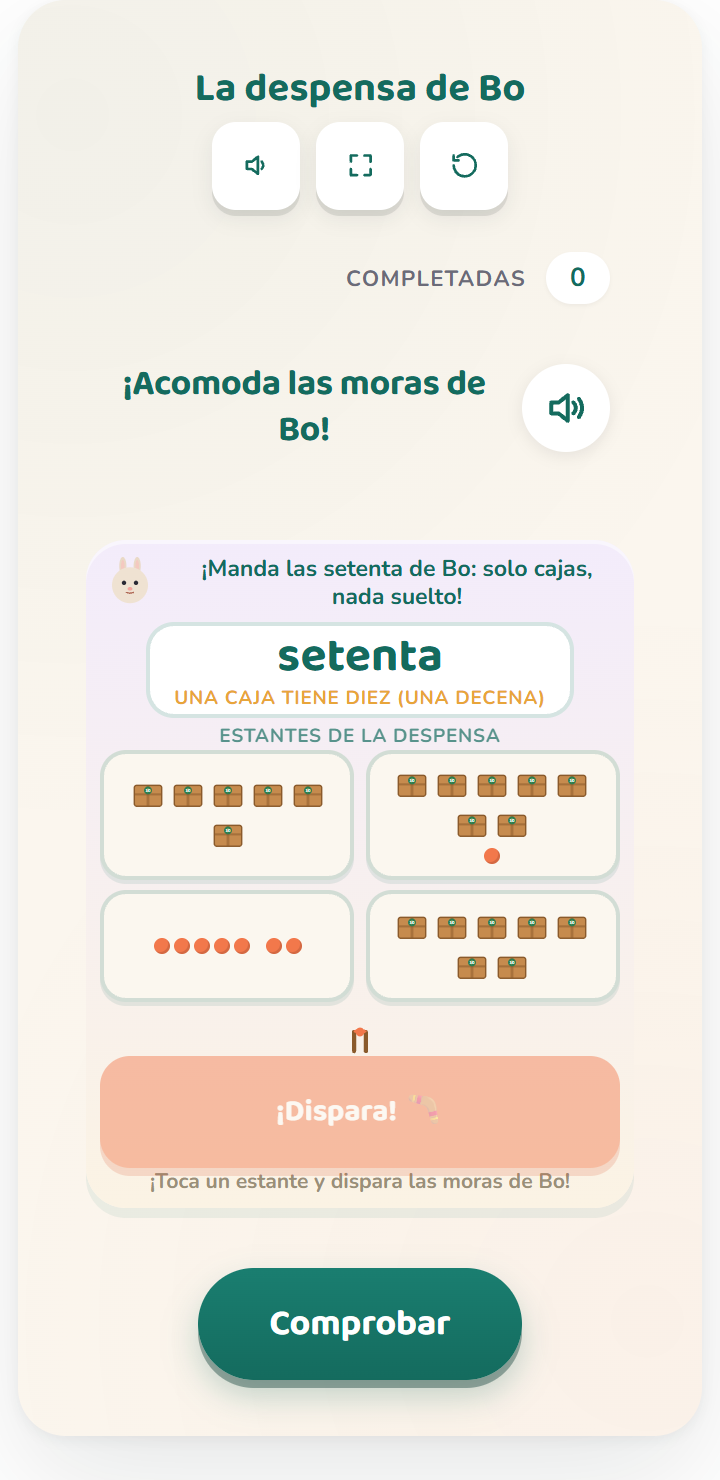
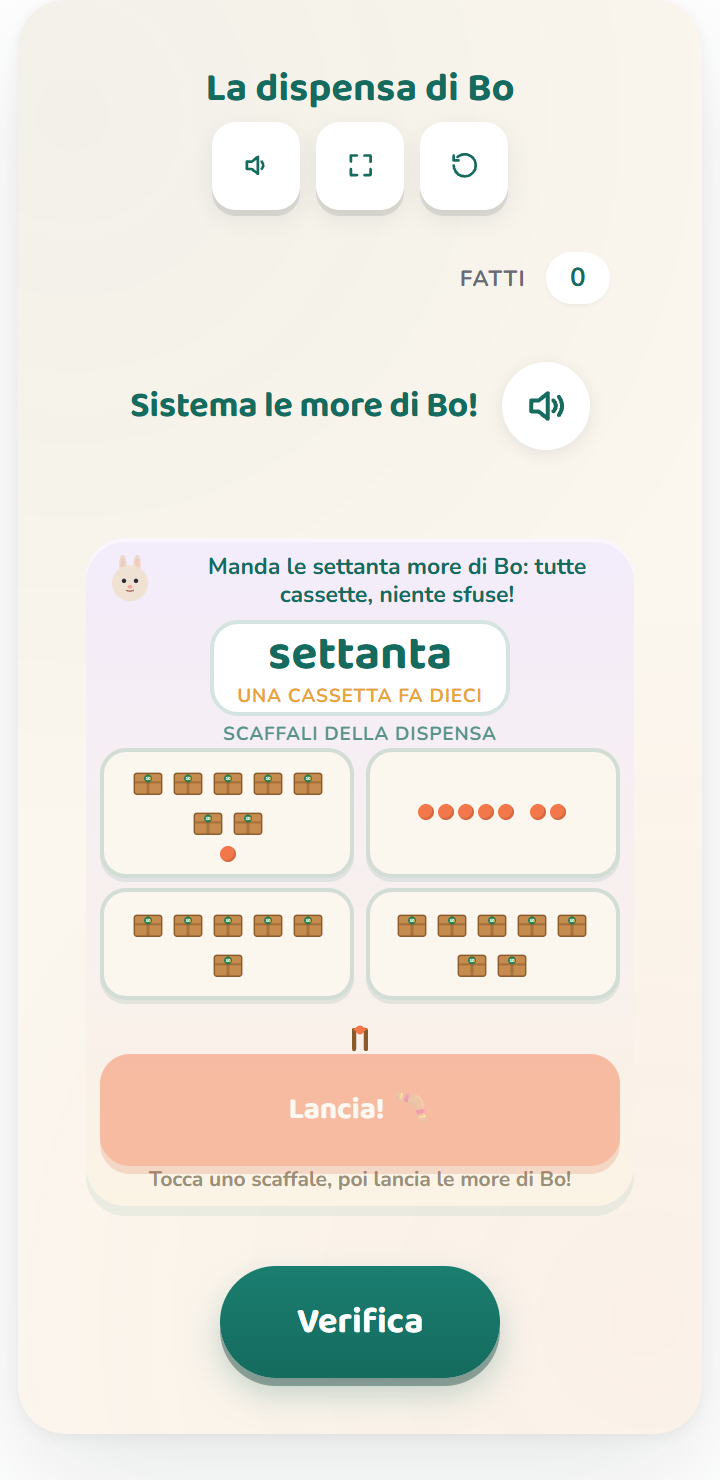
[FEATURE][I18N][IT] bos-berry-pantry #47 — La dispensa di Bo (valore posizionale decine e unità, Numeri, classe seconda)
11th it MATH — Bo il coniglio packs berries: a crate = TEN, loose berries =
ones; read a two-digit number and sling it to the place-value shelf (1.NBT.B.2).
Rebuild-not-translate for the Indicazioni nazionali; framework name only, no
code. Activity-layer only (0 core/shell/Direction-A lines).

Biggest it edit surface yet (engine has full per-locale LANG chains):
- numWordIT(n) — Italian number words 0-99 (tré-accent in compounds only,
  uno/otto elision via slice); pedagogue-verified across the round values.
- 6 LANG-branch `it` arms: numWord chain, hoardAria («{n} cassette e {n} more
  sfuse»), speak ×2 (⚠ fixed the it→en-US TTS fallback bug), Bo aria («Bo il
  coniglio»), shelf-numeral aria, "count again" speak.
- 19 chrome strings apostrophe-free JS (via «di Bo»/«non è»/enclitics).

- GRADE_OVERRIDE it:'2' classe seconda — il valore posizionale FORMALE (decine
  e unità to 85, funzione dello zero via 40/70) = seconda; prima = entro il 20 +
  la decina solo concreta. ALIGNS de/pt (grade 2), DIVERGES es/fr (grade 1) —
  the national-curriculum-wins precedent.
- STRAND «Numeri» — NO override (NBT→«Numeri» clean; de-only strand row for the
  German base-ten calque stays untouched).
- Bo = «il coniglio»; crate = «la cassetta» (decina), berries = «le more», loose
  = «more sfuse» (unità), shelf = «lo scaffale», sling = «lancia».
- 3-agent native it ensemble (Indicazioni pedagogue + linguist + B2C/SEO), unanimous.
[…]

diff --git a/mini tools/bos-berry-pantry-activity.js b/mini tools/bos-berry-pantry-activity.js
@@ -78,8 +78,24 @@
     if (t > 9) return String(n);
     return o ? TENS_PT[t] + ' e ' + ONES_PT[o] : TENS_PT[t];
   }
+  /* Italian number-words (classe seconda, valore posizionale ZR fino a ~100). tens + ones as ONE word;
+     the tens' final vowel ELIDES before uno & otto (venti→ventuno/ventotto); 3 carries an acute accent
+     ONLY as a compound suffix (ventitré/sessantatré) — standalone ONES_IT[3]='tre' has no accent. */
+  var ONES_IT = ['zero', 'uno', 'due', 'tre', 'quattro', 'cinque', 'sei', 'sette', 'otto', 'nove', 'dieci', 'undici', 'dodici', 'tredici', 'quattordici', 'quindici', 'sedici', 'diciassette', 'diciotto', 'diciannove'];
+  var TENS_IT = ['', '', 'venti', 'trenta', 'quaranta', 'cinquanta', 'sessanta', 'settanta', 'ottanta', 'novanta'];
+  var UNIT_IT = ['', 'uno', 'due', 'tré', 'quattro', 'cinque', 'sei', 'sette', 'otto', 'nove'];
+  function numWordIT(n) {
+    n = n | 0;
+    if (n < 20) return ONES_IT[n] || String(n);
+    var t = Math.floor(n / 10), o = n % 10;
+    if (t > 9) return String(n);
+    if (o === 0) return TENS_IT[t];
+    var tens = TENS_IT[t];
+    if (o === 1 || o === 8) tens = tens.slice(0, -1);
+    return tens + UNIT_IT[o];
+  }
   var LANG = 'en';
-  function numWord(n) { return LANG === 'pt' ? numWordPT(n) : (LANG === 'es' ? numWordES(n) : (LANG === 'fr' ? numWordFR(n) : (LANG === 'de' ? numWordDE(n) : enWord(n)))); }
+  function numWord(n) { return LANG === 'it' ? numWordIT(n) : (LANG === 'pt' ? numWordPT(n) : (LANG === 'es' ? numWordES(n) : (LANG === 'fr' ? numWordFR(n) : (LANG === 'de' ? numWordDE(n) : enWord(n))))); }
   /* shelf-hoard aria — German needs singular/plural (1 Kiste / N Kisten; 1 lose Beere /
      N lose Beeren) and drops the loose clause when ones=0. EN stays byte-identical. */
   function hoardAria(tens, ones) {
@@ -103,20 +119,25 @@
       if (ones) p += ' e ' + ones + ' ' + (ones === 1 ? 'amora solta' : 'amoras soltas');
       return p;
     }
+    if (LANG === 'it') {
+      var it = (tens === 1 ? '1 cassetta' : tens + ' cassette');
+      if (ones) it += ' e ' + ones + ' ' + (ones === 1 ? 'mora sfusa' : 'more sfuse');
+      return it;
+    }
     return tens + ' crates and ' + ones + ' loose berries';
   }
 
   function speak(text) {
     try {
-      if (global.LCSAudio && global.LCSAudio.speak) { global.LCSAudio.speak({ type: 'word', text: String(text), lang: (LANG === 'es' ? 'es-MX' : LANG === 'pt' ? 'pt-BR' : LANG), rate: 0.95 }); return; }
-      if (global.speechSynthesis && global.SpeechSynthesisUtterance) { var u = new global.SpeechSynthesisUtterance(String(text)); u.rate = .95; u.lang = (LANG === 'es' ? 'es-MX' : (LANG === 'de' ? 'de-DE' : (LANG === 'fr' ? 'fr-FR' : (LANG === 'pt' ? 'pt-BR' : 'en-US')))); global.speechSynthesis.cancel(); global.speechSynthesis.speak(u); }
+      if (global.LCSAudio && global.LCSAudio.speak) { global.LCSAudio.speak({ type: 'word', text: String(text), lang: (LANG === 'es' ? 'es-MX' : LANG === 'pt' ? 'pt-BR' : LANG === 'it' ? 'it-IT' : LANG), rate: 0.95 }); return; }
+      if (global.speechSynthesis && global.SpeechSynthesisUtterance) { var u = new global.SpeechSynthesisUtterance(String(text)); u.rate = .95; u.lang = (LANG === 'es' ? 'es-MX' : (LANG === 'de' ? 'de-DE' : (LANG === 'fr' ? 'fr-FR' : (LANG === 'pt' ? 'pt-BR' : (LANG === 'it' ? 'it-IT' : 'en-US'))))); global.speechSynthesis.cancel(); global.speechSynthesis.speak(u); }
     } catch (e) {}
   }
   var REDUCED = (global.matchMedia && global.matchMedia('(prefers-reduced-motion: reduce)').matches);
 
   function boSVG(mood) {
     var happy = mood === 'happy';
-    return '<svg viewBox="0 0 100 100" role="img" aria-label="' + (LANG === 'es' ? 'Bo el conejo' : (LANG === 'de' ? 'Bo das Kaninchen' : (LANG === 'fr' ? 'Bo le lapin' : (LANG === 'pt' ? 'Bo o coelho' : 'Bo the bunny')))) + '">'
+    return '<svg viewBox="0 0 100 100" role="img" aria-label="' + (LANG === 'es' ? 'Bo el conejo' : (LANG === 'de' ? 'Bo das Kaninchen' : (LANG === 'fr' ? 'Bo le lapin' : (LANG === 'pt' ? 'Bo o coelho' : (LANG === 'it' ? 'Bo il coniglio' : 'Bo the bunny'))))) + '">'
       + '<ellipse cx="38" cy="20" rx="6" ry="15" fill="#E9D9C6"/><ellipse cx="62" cy="20" rx="6" ry="15" fill="#E9D9C6"/>'   // ears
       + '<ellipse cx="38" cy="20" rx="3" ry="10" fill="#F4C9C0"/><ellipse cx="62" cy="20" rx="3" ry="10" fill="#F4C9C0"/>'
       + '<circle cx="50" cy="52" r="30" fill="#EFE2D2"/>'                                                                     // head
@@ -141,25 +162,25 @@
     reward: { id: 'pantry', label: "Bo's Winter Pantry", emoji: '🧺' },
 
     strings: {
-      title: { en: "Bo's Berry Pantry", de: 'Bos Beerenkammer', fr: 'Le garde-manger de Bo', es: 'La despensa de Bo', pt: 'A despensa do Bo' },
-      instruction: { en: 'Read Bo’s berries, then sling them to the matching shelf.', de: 'Lies Bos Beeren und schieß sie zum passenden Regal!', fr: 'Lis les baies de Bo, puis lance-les sur la bonne étagère !', es: '¡Lee las moras de Bo y dispáralas al estante que coincide!', pt: 'Leia as amoras do Bo e atire na prateleira certa!' },
-      prompt: { en: 'Pack Bo’s berries!', de: 'Pack Bos Beeren!', fr: 'Range les baies de Bo !', es: '¡Acomoda las moras de Bo!', pt: 'Guarde as amoras do Bo!' },
-      qPile: { en: 'Pack Bo’s berries — crates and loose!', de: 'Pack Bos Beeren — Kisten und lose Beeren!', fr: 'Range les baies de Bo — des caisses et des baies libres !', es: '¡Acomoda las moras de Bo: cajas y moras sueltas!', pt: 'Guarde as amoras do Bo: caixas e amoras soltas!' },
-      qDecade: { en: 'Send Bo’s {w} — all crates, no loose!', de: 'Schick Bos {w} — nur Kisten, nichts Loses!', fr: 'Envoie les {w} de Bo — que des caisses, rien de libre !', es: '¡Manda las {w} de Bo: solo cajas, nada suelto!', pt: 'Mande as {w} do Bo: só caixas, nada solto!' },
-      qUnitize: { en: 'Pack {w} — use the MOST crates you can!', de: 'Pack {w} — nimm so viele Kisten wie möglich!', fr: 'Range {w} — utilise le PLUS de caisses possible !', es: 'Acomoda {w}: ¡usa la mayor cantidad de cajas posible!', pt: 'Guarde {w}: use o máximo de caixas que der!' },
-      qCompare: { en: 'Which shelf has MORE?', de: 'Welches Regal hat MEHR?', fr: 'Quelle étagère en a le PLUS ?', es: '¿Cuál estante tiene MÁS?', pt: 'Qual prateleira tem MAIS?' },
-      qNumeral: { en: 'Send {w} home — match the shelf!', de: 'Schick {w} nach Hause — finde das passende Regal!', fr: 'Renvoie {w} à la maison — trouve la bonne étagère !', es: '¡Manda {w} a su lugar: encuentra el estante que coincide!', pt: 'Mande {w} para o lugar certo: ache a prateleira que combina!' },
-      qEncode: { en: 'Which number is Bo’s hoard?', de: 'Welche Zahl ist Bos Vorrat?', fr: 'Quel nombre est le trésor de Bo ?', es: '¿Qué número tiene Bo guardado?', pt: 'Que número o Bo guardou?' },
-      crateWord: { en: 'a crate is TEN', de: 'eine Kiste ist ZEHN', fr: 'une caisse, c’est DIX', es: 'una caja tiene DIEZ (una decena)', pt: 'uma caixa tem DEZ (uma dezena)' },
-      shelvesLab: { en: 'Pantry shelves', de: 'VORRATSREGALE', fr: 'ÉTAGÈRES DU GARDE-MANGER', es: 'ESTANTES DE LA DESPENSA', pt: 'PRATELEIRAS DA DESPENSA' },
-      sling: { en: 'Sling it! 🪃', de: 'Schieß los! 🪃', fr: 'Lance ! 🪃', es: '¡Dispara! 🪃', pt: 'Atire! 🪃' },
-      slingHint: { en: 'Tap a shelf, then sling Bo’s berries!', de: 'Tipp ein Regal an und schieß Bos Beeren!', fr: 'Touche une étagère, puis lance les baies de Bo !', es: '¡Toca un estante y dispara las moras de Bo!', pt: 'Toque numa prateleira e atire as amoras do Bo!' },
-      lockedHint: { en: 'Now sling it to that shelf!', de: 'Jetzt schieß sie zum Regal!', fr: 'Maintenant, lance-les sur cette étagère !', es: '¡Ahora dispáralas al estante!', pt: 'Agora atire na prateleira!' },
-      wrongCrates: { en: 'That shelf holds {k} crates — count again for Bo!', de: 'Dieses Regal hat {k} Kisten — zähl noch mal für Bo!', fr: 'Cette étagère a {k} caisses — recompte pour Bo !', es: 'Este estante tiene {k} cajas: ¡cuenta otra vez para Bo!', pt: 'Esta prateleira tem {k} caixas: conte de novo para o Bo!' },
-      wrongOne: { en: 'That shelf holds 1 crate — count again for Bo!', de: 'Dieses Regal hat 1 Kiste — zähl noch mal für Bo!', fr: 'Cette étagère a 1 caisse — recompte pour Bo !', es: 'Este estante tiene 1 caja: ¡cuenta otra vez para Bo!', pt: 'Esta prateleira tem 1 caixa: conte de novo para o Bo!' },
-      wrongNum: { en: 'That number isn’t Bo’s hoard — count again!', de: 'Das ist nicht Bos Vorrat — zähl noch mal!', fr: 'Ce n’est pas le trésor de Bo — recompte !', es: 'Ese no es lo que guardó Bo: ¡cuenta otra vez!', pt: 'Não foi isso que o Bo guardou: conte de novo!' },
-      win: { en: '{w} — packed into tens! 🧺', de: '{w} — in Zehner gepackt! 🧺', fr: '{w} — rangé en dizaines ! 🧺', es: '{w}: ¡acomodadas en decenas! 🧺', pt: '{w}: guardadas em dezenas! 🧺' },
-      tapCheck: { en: 'Tap Check! ✓', de: 'Tipp auf „Prüfen"! ✓', fr: 'Touche Vérifier ! ✓', es: '¡Toca «Comprobar»! ✓', pt: 'Toque em “Verificar”! ✓' }
+      title: { en: "Bo's Berry Pantry", de: 'Bos Beerenkammer', fr: 'Le garde-manger de Bo', es: 'La despensa de Bo', pt: 'A despensa do Bo', it: 'La dispensa di Bo' },
+      instruction: { en: 'Read Bo’s berries, then sling them to the matching shelf.', de: 'Lies Bos Beeren und schieß sie zum passenden Regal!', fr: 'Lis les baies de Bo, puis lance-les sur la bonne étagère !', es: '¡Lee las moras de Bo y dispáralas al estante que coincide!', pt: 'Leia as amoras do Bo e atire na prateleira certa!', it: 'Leggi le more di Bo, poi lanciale sullo scaffale giusto.' },
+      prompt: { en: 'Pack Bo’s berries!', de: 'Pack Bos Beeren!', fr: 'Range les baies de Bo !', es: '¡Acomoda las moras de Bo!', pt: 'Guarde as amoras do Bo!', it: 'Sistema le more di Bo!' },
+      qPile: { en: 'Pack Bo’s berries — crates and loose!', de: 'Pack Bos Beeren — Kisten und lose Beeren!', fr: 'Range les baies de Bo — des caisses et des baies libres !', es: '¡Acomoda las moras de Bo: cajas y moras sueltas!', pt: 'Guarde as amoras do Bo: caixas e amoras soltas!', it: 'Sistema le more di Bo: cassette e more sfuse!' },
+      qDecade: { en: 'Send Bo’s {w} — all crates, no loose!', de: 'Schick Bos {w} — nur Kisten, nichts Loses!', fr: 'Envoie les {w} de Bo — que des caisses, rien de libre !', es: '¡Manda las {w} de Bo: solo cajas, nada suelto!', pt: 'Mande as {w} do Bo: só caixas, nada solto!', it: 'Manda le {w} more di Bo: tutte cassette, niente sfuse!' },
+      qUnitize: { en: 'Pack {w} — use the MOST crates you can!', de: 'Pack {w} — nimm so viele Kisten wie möglich!', fr: 'Range {w} — utilise le PLUS de caisses possible !', es: 'Acomoda {w}: ¡usa la mayor cantidad de cajas posible!', pt: 'Guarde {w}: use o máximo de caixas que der!', it: 'Sistema {w}: usa PIÙ cassette che puoi!' },
+      qCompare: { en: 'Which shelf has MORE?', de: 'Welches Regal hat MEHR?', fr: 'Quelle étagère en a le PLUS ?', es: '¿Cuál estante tiene MÁS?', pt: 'Qual prateleira tem MAIS?', it: 'Quale scaffale ne ha di PIÙ?' },
+      qNumeral: { en: 'Send {w} home — match the shelf!', de: 'Schick {w} nach Hause — finde das passende Regal!', fr: 'Renvoie {w} à la maison — trouve la bonne étagère !', es: '¡Manda {w} a su lugar: encuentra el estante que coincide!', pt: 'Mande {w} para o lugar certo: ache a prateleira que combina!', it: 'Manda {w} a casa: trova lo scaffale giusto!' },
+      qEncode: { en: 'Which number is Bo’s hoard?', de: 'Welche Zahl ist Bos Vorrat?', fr: 'Quel nombre est le trésor de Bo ?', es: '¿Qué número tiene Bo guardado?', pt: 'Que número o Bo guardou?', it: 'Quale numero è la scorta di Bo?' },
+      crateWord: { en: 'a crate is TEN', de: 'eine Kiste ist ZEHN', fr: 'une caisse, c’est DIX', es: 'una caja tiene DIEZ (una decena)', pt: 'uma caixa tem DEZ (uma dezena)', it: 'una cassetta fa DIECI' },
+      shelvesLab: { en: 'Pantry shelves', de: 'VORRATSREGALE', fr: 'ÉTAGÈRES DU GARDE-MANGER', es: 'ESTANTES DE LA DESPENSA', pt: 'PRATELEIRAS DA DESPENSA', it: 'SCAFFALI DELLA DISPENSA' },
+      sling: { en: 'Sling it! 🪃', de: 'Schieß los! 🪃', fr: 'Lance ! 🪃', es: '¡Dispara! 🪃', pt: 'Atire! 🪃', it: 'Lancia! 🪃' },
+      slingHint: { en: 'Tap a shelf, then sling Bo’s berries!', de: 'Tipp ein Regal an und schieß Bos Beeren!', fr: 'Touche une étagère, puis lance les baies de Bo !', es: '¡Toca un estante y dispara las moras de Bo!', pt: 'Toque numa prateleira e atire as amoras do Bo!', it: 'Tocca uno scaffale, poi lancia le more di Bo!' },
+      lockedHint: { en: 'Now sling it to that shelf!', de: 'Jetzt schieß sie zum Regal!', fr: 'Maintenant, lance-les sur cette étagère !', es: '¡Ahora dispáralas al estante!', pt: 'Agora atire na prateleira!', it: 'Ora lancia su quello scaffale!' },
+      wrongCrates: { en: 'That shelf holds {k} crates — count again for Bo!', de: 'Dieses Regal hat {k} Kisten — zähl noch mal für Bo!', fr: 'Cette étagère a {k} caisses — recompte pour Bo !', es: 'Este estante tiene {k} cajas: ¡cuenta otra vez para Bo!', pt: 'Esta prateleira tem {k} caixas: conte de novo para o Bo!', it: 'Quello scaffale tiene {k} cassette: riconta per Bo!' },
+      wrongOne: { en: 'That shelf holds 1 crate — count again for Bo!', de: 'Dieses Regal hat 1 Kiste — zähl noch mal für Bo!', fr: 'Cette étagère a 1 caisse — recompte pour Bo !', es: 'Este estante tiene 1 caja: ¡cuenta otra vez para Bo!', pt: 'Esta prateleira tem 1 caixa: conte de novo para o Bo!', it: 'Quello scaffale tiene 1 cassetta: riconta per Bo!' },
+      wrongNum: { en: 'That number isn’t Bo’s hoard — count again!', de: 'Das ist nicht Bos Vorrat — zähl noch mal!', fr: 'Ce n’est pas le trésor de Bo — recompte !', es: 'Ese no es lo que guardó Bo: ¡cuenta otra vez!', pt: 'Não foi isso que o Bo guardou: conte de novo!', it: 'Quel numero non è la scorta di Bo: riconta!' },
+      win: { en: '{w} — packed into tens! 🧺', de: '{w} — in Zehner gepackt! 🧺', fr: '{w} — rangé en dizaines ! 🧺', es: '{w}: ¡acomodadas en decenas! 🧺', pt: '{w}: guardadas em dezenas! 🧺', it: '{w}: sistemate in decine! 🧺' },
+      tapCheck: { en: 'Tap Check! ✓', de: 'Tipp auf „Prüfen"! ✓', fr: 'Touche Vérifier ! ✓', es: '¡Toca «Comprobar»! ✓', pt: 'Toque em “Verificar”! ✓', it: 'Tocca Verifica! ✓' }
     },
     defaults: {},
 
@@ -250,7 +271,7 @@
       this.cstate.positions.forEach(function (key) {
         var sh = self.round.shelves[key], locked = (self.cstate.lockedKey === key);
         var btn = api.el('button', 'bp-shelf' + (locked ? ' bp-locked' : '')); btn.type = 'button'; btn.setAttribute('data-key', key);
-        if (sh.numeral != null) { var num = api.el('span', 'bp-shnum'); num.textContent = sh.numeral; btn.appendChild(num); btn.setAttribute('aria-label', (LANG === 'es' ? 'el número ' : (LANG === 'de' ? 'die Zahl ' : (LANG === 'fr' ? 'le nombre ' : (LANG === 'pt' ? 'o número ' : 'the number ')))) + sh.numeral); }
+        if (sh.numeral != null) { var num = api.el('span', 'bp-shnum'); num.textContent = sh.numeral; btn.appendChild(num); btn.setAttribute('aria-label', (LANG === 'es' ? 'el número ' : (LANG === 'de' ? 'die Zahl ' : (LANG === 'fr' ? 'le nombre ' : (LANG === 'pt' ? 'o número ' : (LANG === 'it' ? 'il numero ' : 'the number '))))) + sh.numeral); }
         else { btn.appendChild(self._hoard(sh.tens | 0, sh.ones | 0)); btn.setAttribute('aria-label', hoardAria(sh.tens | 0, sh.ones | 0)); }
         btn.addEventListener('click', function () { self._lockShelf(key); });
         self._shelfEls[key] = btn; row.appendChild(btn);
@@ -300,7 +321,7 @@
       if (r === 'wrong') {
         if (shelf.numeral != null) this.msg = this.api.t('wrongNum');
         else { var k = shelf.tens | 0; this.msg = (k === 1) ? this.api.t('wrongOne') : this.api.t('wrongCrates').replace('{k}', k); }
-        this.api.sound && this.api.sound(330); speak(LANG === 'es' ? 'cuenta otra vez' : (LANG === 'de' ? 'Zähl noch einmal' : (LANG === 'fr' ? 'Compte encore' : (LANG === 'pt' ? 'Conte de novo' : 'count again')))); this.render();
+        this.api.sound && this.api.sound(330); speak(LANG === 'es' ? 'cuenta otra vez' : (LANG === 'de' ? 'Zähl noch einmal' : (LANG === 'fr' ? 'Compte encore' : (LANG === 'pt' ? 'Conte de novo' : (LANG === 'it' ? 'Conta di nuovo' : 'count again'))))); this.render();
       } else { this.render(); }
     },
     _win: function () {

diff --git a/frontend/app/[locale]/activities/[slug]/page.tsx b/frontend/app/[locale]/activities/[slug]/page.tsx
@@ -95,7 +95,7 @@ const GRADE_OVERRIDE: Record<string, Record<string, string>> = {
   'maple-bakery.share.3-oa-a-2': { de: '2', fr: '2', it: '2' },                    // Division (Verteilen/Aufteilen, ohne Rest) introduced alongside Einmaleins = DE Klasse 2. FR CE1 (operator-ruled): division-SENS (partage/groupement, petits nombres, sans reste, imagé) = l'approche de la division au CE1 (CE2 formalise le quotient/reste); native '3'→CE2 too high; de Klasse-2 re-grade ≈ fr CE1; « Nombres et calcul » auto-map → NO STRAND override. ES: NO override — en MX la división (reparto/agrupamiento) entra en 3.º primaria, un año DESPUÉS de la multiplicación (#38 echo-grove es:'2'); grado nativo 3 → "3.º de primaria" (asimetría deliberada mult 2.º / div 3.º — NO igualar a echo-grove). Strand auto "Sentido numérico" → NO STRAND override. IT: classe seconda — l'Italia segue il pattern de/fr (moltiplicazione e divisione = coppia inversa nello STESSO anno; la divisione [reparto/raggruppamento, senza resto, per immagini] entra nel 2º quadrimestre di classe seconda; la divisione in colonna + il resto = classe terza) → it si UNISCE a de/fr a '2', NON alla asimmetria es/pt native-3; strand auto → «Numeri» (NIENTE «Algebra» nella primaria) → NO STRAND override
   'comet-kangaroo.tens-hundreds.2-nbt-b-8': { de: '3', es: '3', pt: '3', it: '3' },         // 10/100 mehr-weniger im ZR bis 1000 = DE Klasse 3 (Tausenderraum; Klasse 2 = bis 100). ES: números hasta 1000 / valor posicional de 3 cifras = 3.º primaria en MX; espeja place-value-regroup 2-nbt-b-7 es:'3' (bis-1000 = 3º). PT: valor posicional de 3 algarismos + 10/100 a mais/a menos até 1000 = BNCC 3º ano (EF03MA01/02 números até milhar + composição/valor posicional; EF03MA05 cálculo mental); 2º = até centenas com material manipulável → o campo abstrato até 1000 é o salto 2º→3º. Strand auto-map (NBT→"Números") já correto → SEM STRAND_OVERRIDE pt. IT: i numeri fino a 1000 / valore posizionale 3 cifre / calcolo mentale «10 in più / 100 in meno» = classe terza (classe seconda entro il 100) → it:'3' come de/es/pt; strand auto NBT→«Numeri» → NO STRAND override
   'track-repair.count-to-120.1-nbt-a-1': { de: '2', fr: '1', it: '2' },   // Orientierung am Zahlenstrahl bis 100 + skip-counting = DE Klasse 2 (ZR bis 20 = Klasse 1); US Grade 1 offset. IT classe seconda (override del manifest '1'): orientarsi/collocare sulla linea dei numeri fino a 100 + contare per salti (per 5, per 10) = classe SECONDA nelle Indicazioni (la classe prima si ferma a ~20 con la linea dei numeri solo per numeri piccoli; i range 84-101 + gli skip-count 15·20·25 / 50·60 / 70·80 superano il tetto di prima). ALLINEA de (Klasse 2), DIVERGE da fr/es/pt grade-1 (i cui curricoli fanno il 100 in prima/CP). Strand «Numeri» auto (NBT→«Numeri») → NO it STRAND override. FR CP (operator-ruled): la ligne numérique + compter en avant/arrière + de 5 en 5 / de 10 en 10 + placer les nombres jusqu'à ~100 = attendus du CP; la France fait 100 au CP (là où l'Allemagne a besoin de Klasse 2 — posy #71 precedent); le franchissement de la centaine (~103) = extension de fin de CP, pas le CE1 (jusqu'à 1000); CP → l'auto-map « Nombres et calcul » est correct → NO fr STRAND override
-  'bos-berry-pantry.slingshot-tens.1-nbt-b-2': { de: '2', pt: '2' },       // read/match two-digit Stellenwert (values to 85, multiple tens, ZR bis 100) → DE Klasse 2 (Klasse 1 = ZR bis 20); bundle-bot precedent. PT 2º ano (pedagogue-decisive): valor posicional/SND (unitizing "a crate IS a ten" + função do zero via 40/70) = BNCC EF02MA01/EF02MA04 (2º ano); 1º ano = número-como-quantidade sem valor posicional formal; es/fr introduce dizaines at grade 1 by their own curriculum, BNCC defers
+  'bos-berry-pantry.slingshot-tens.1-nbt-b-2': { de: '2', pt: '2', it: '2' }, // IT classe seconda (override del manifest '1'): il valore posizionale FORMALE (leggere/comporre numeri a due cifre per decine e unità fino a 85, la funzione dello zero via 40/70) = classe seconda nelle Indicazioni; la classe prima lavora entro il 20 e introduce la decina solo come raggruppamento CONCRETO, senza scomposizione posizionale. ALLINEA de/pt (grade 2), DIVERGE da es/fr (grade 1, i cui curricoli introducono la decina/dizaines in prima). Strand «Numeri» auto (NBT→«Numeri») → NO it STRAND override. Il precedente nazionale-curricolo-vince (citato da gauge-good-guess #43). read/match two-digit Stellenwert (values to 85, multiple tens, ZR bis 100) → DE Klasse 2 (Klasse 1 = ZR bis 20); bundle-bot precedent. PT 2º ano (pedagogue-decisive): valor posicional/SND (unitizing "a crate IS a ten" + função do zero via 40/70) = BNCC EF02MA01/EF02MA04 (2º ano); 1º ano = número-como-quantidade sem valor posicional formal; es/fr introduce dizaines at grade 1 by their own curriculum, BNCC defers
   'vet-diagnosis.word-problems.1-oa-a-1': { de: '2', fr: '2', es: '2', pt: '2' },  // Sachaufgaben ZR bis 20 BUT grade follows STRUCTURE: Anfang-unbekannt + additiver Vergleich = schwierigste Klasse-2 Sachaufgabentypen; length-sibling precedent. fr → CE1 (same structural logic). es → 2.º primaria (SEP: incógnita-al-inicio reversa + comparación aditiva = tipos más difíciles, 2.º; converge con de/fr); pt → 2º ano (BNCC EF02MA06 é a 1ª habilidade a incluir os significados comparar+completar; EF01MA08 só juntar/acrescentar/separar/retirar e restrito a problemas modeláveis "com o suporte de imagens", que as rodadas de início-desconhecido deduzido excedem); en stays Grade 1 native; strand falls through auto-map (es « Sentido numérico »)
   'bramble.holds-more.k-md-a-2': { de: '1', pt: '1' },                    // K capacity: German „Kindergarten"=daycare (not a school stage) → Klasse 1; direkter Größenvergleich is Klasse-1 Lehrplan; en stays Kindergarten (the K-cluster K-label pattern). PT 1º ano (BNCC EF01MA15 nomeia "comparar capacidades" + "cabe mais/cabe menos" = exatamente esta atividade; a comparação qualitativa de capacidade só vira habilidade nomeada no EF, não na Educação Infantil; espelha o de por motivo BNCC; diverge de es/fr que mantêm K pela redação maternelle/preescolar)
   'pip-museum.curate-wing.k-g-a-2': { de: '1', fr: '1', pt: '1' },        // K geometry shape-naming → Klasse 1 (Formen erkennen/benennen = Kern-Geometrie Klasse 1); en stays Kindergarten (K-cluster pattern). FR CP (operator-ruled, content-drives): reconnaître/nommer les figures INDÉPENDAMMENT de l'orientation/la taille + distinguer carré/rectangle/losange par leurs propriétés + hexagone (au-delà des « figures usuelles » de maternelle) = attendu du CP; DIVERGES from the basic-shape-naming GS framing (parking-tower #75 was GS); CP → the auto-map « Espace et géométrie » is correct → NO STRAND override. PT 1º ano (BNCC EF01MA14 "identificar e nomear figuras planas — círculo, quadrado, retângulo e triângulo — em diferentes disposições" = a invariância por rotação é o núcleo; hexágono/losango = enriquecimento, não escalada p/ 2º; converge com de/fr, diverge de es que mantém K pelo currículo SEP); strand Geometria auto (NO override)
@@ -550,7 +550,7 @@ export default async function ActivityPage({ params }: { params: PageParams }) {
   // applied here to the iframe-loaded wrapper URL (the only un-busted
   // link in the activity-page → mini-tool chain). The wrapper reads
   // only `activity` / `lang` / `embed` params; `v` is harmless to it.
-  const ACTIVITY_WRAPPER_VERSION = '9.499';
+  const ACTIVITY_WRAPPER_VERSION = '9.500';
 
   const iframeSrc =
     `/mini-tools/${row.tool}.html?v=${ACTIVITY_WRAPPER_VERSION}` +

diff --git a/mini tools/bos-berry-pantry-activity.html b/mini tools/bos-berry-pantry-activity.html
@@ -17,7 +17,7 @@
        NOTE: bump ?v=N on EVERY change to bos-berry-pantry-activity.js (§A.13.42). -->
   <script src="/mini-tools/lcs-shell.js?v=5"></script>
   <script src="/mini-tools/slingshot-tens-core.js?v=1"></script>
-  <script src="/mini-tools/bos-berry-pantry-activity.js?v=6"></script>
+  <script src="/mini-tools/bos-berry-pantry-activity.js?v=7"></script>
   <script>
     LCS.mount(BosBerryPantryActivity, { mount: '#lcs-root' });
   </script>
